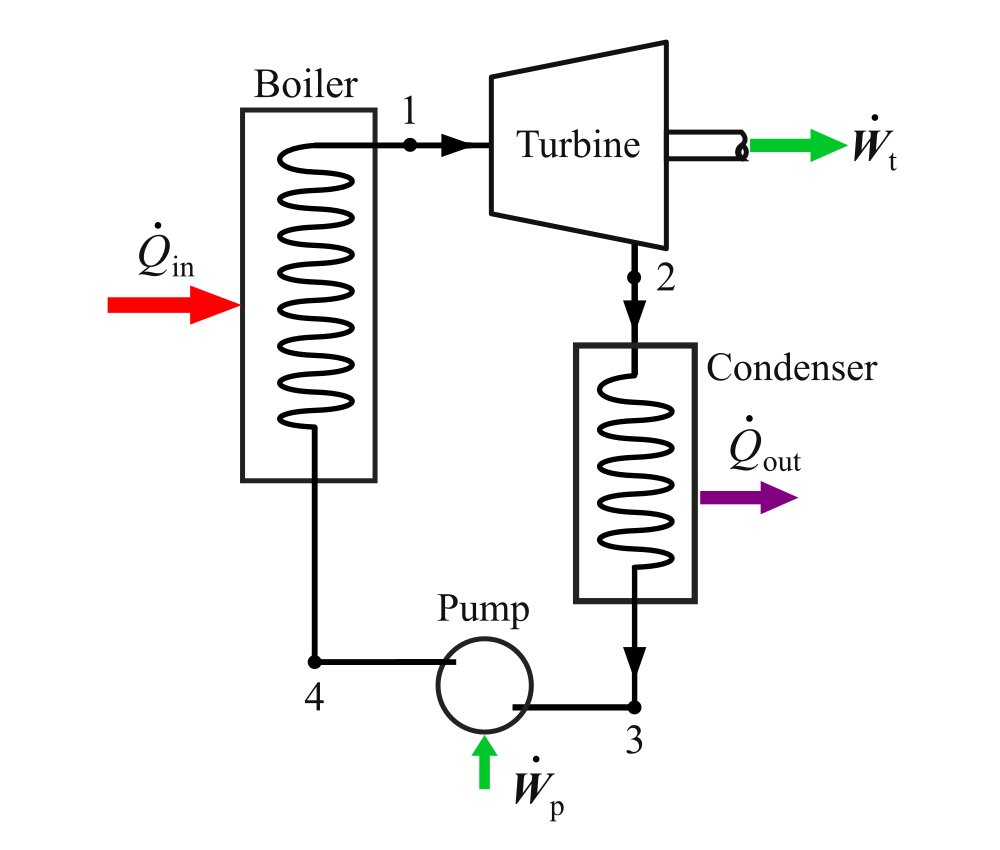
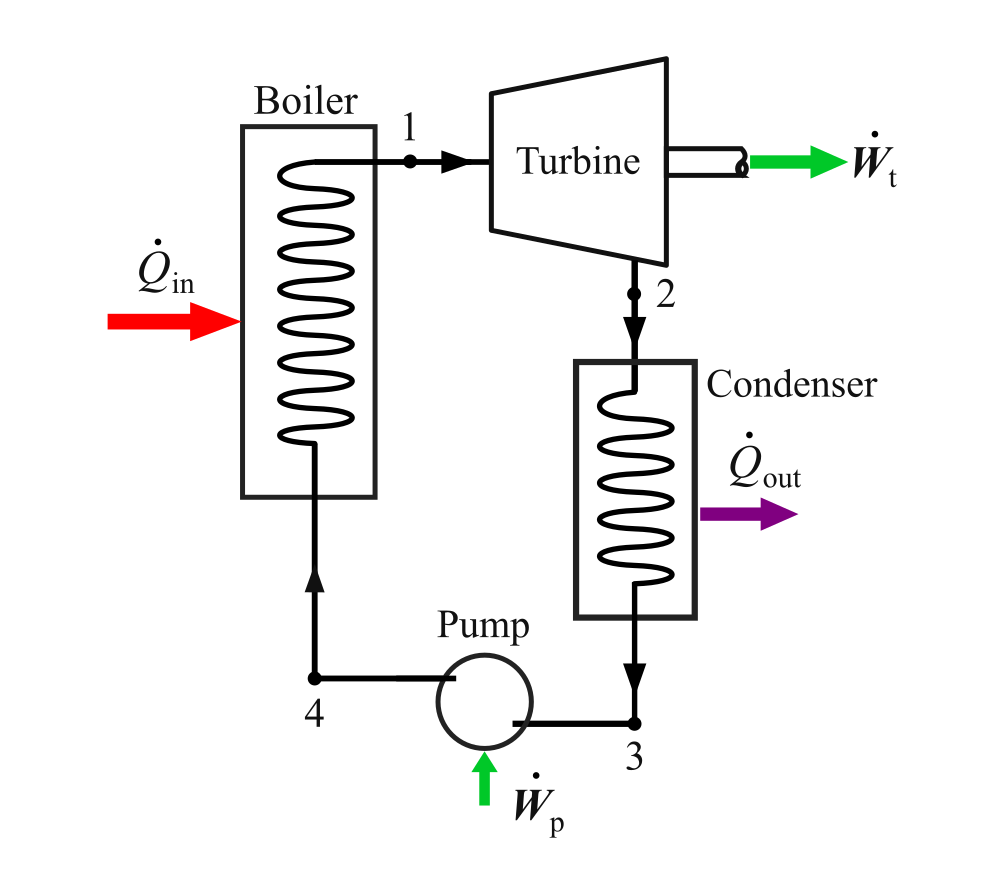
Updated the schematics of VPC-SH-RH, VCRC, and Otto cycles

diff --git a/me200/IdealVCRC1.js b/me200/IdealVCRC1.js
@@ -75,7 +75,7 @@ const pageData = {
         }
     ],
     "schematic": {
-        "src": "../assets/me200/3.1-eq.png",
+        "src": "../assets/me200/IdealVCRC-System.png",
         "alt": "Ideal vapor-compression refrigeration cycle diagram."
     },
     "inputOutput": {

diff --git a/me200/VCRC-SH-SC-ETA_cp1.js b/me200/VCRC-SH-SC-ETA_cp1.js
@@ -90,7 +90,7 @@ const pageData = {
         }
     ],
     "schematic": {
-        "src": "../assets/me200/3.1-eq.png",
+        "src": "../assets/me200/IdealVCRC-System.png",
         "alt": "Ideal vapor-compression refrigeration cycle diagram."
     },
     "inputOutput": {

diff --git a/me200/VPC-SH-RH1.js b/me200/VPC-SH-RH1.js
@@ -58,7 +58,7 @@ const pageData = {
         }
     ],
     "schematic": {
-        "src": "../assets/me200/3.1-eq.png",
+        "src": "../assets/me200/VPC-SH-RH-Cycle-System.png",
         "alt": "Vapor power cycle with superheat and reheat."
     },
     "inputOutput": {

diff --git a/me200/OttoCycle-CASA1.js b/me200/OttoCycle-CASA1.js
@@ -60,7 +60,7 @@ const pageData = {
         }
     ],
     "schematic": {
-        "src": "../assets/me200/3.1-eq.png",
+        "src": "../assets/me200/InternalCombustionEngine.png",
         "alt": "Air-Standard Otto cycle diagram."
     },
     "inputOutput": {
